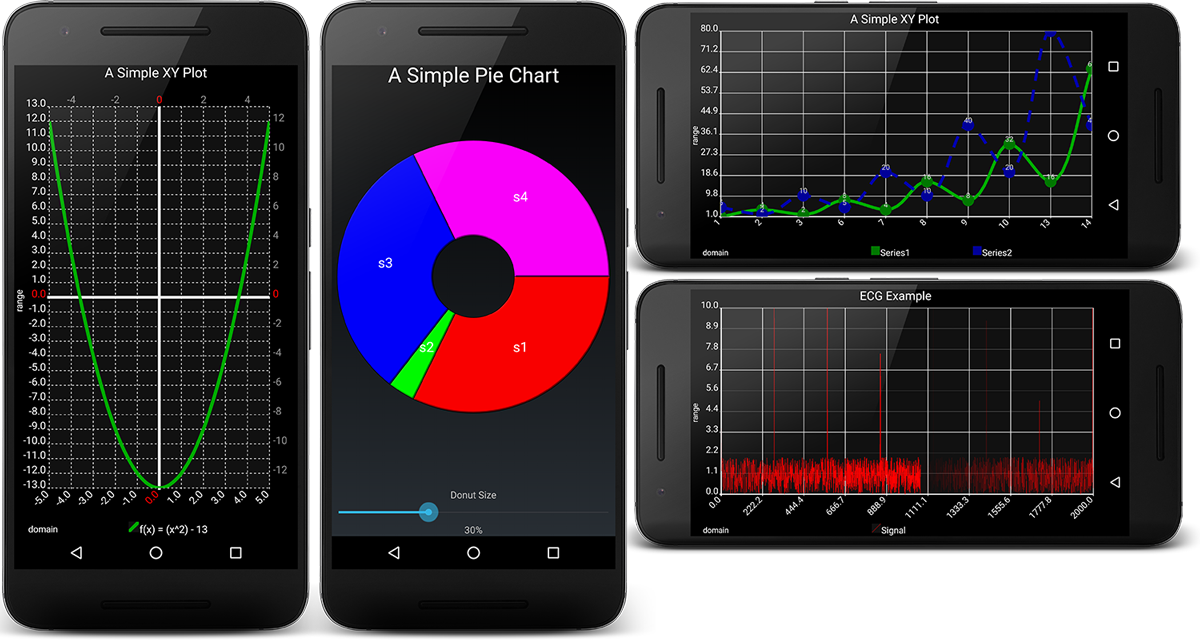
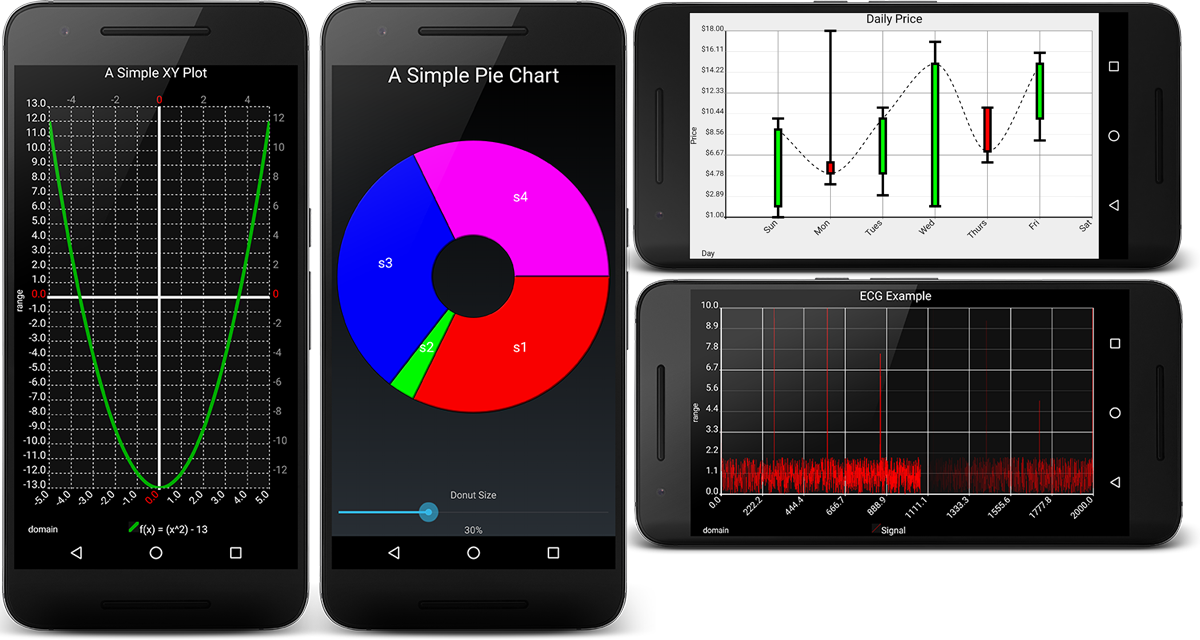
Documentation

Changed region(s): [[0.5242, 0.0, 0.925, 0.4375], [0.925, 0.4062, 0.9867, 0.4375], [0.9558, 0.0, 0.9867, 0.0312]]

diff --git a/README.md b/README.md
@@ -15,7 +15,12 @@ compatible with all versions of Android from 1.6 onward and is **used by over
 * Step Charts
 * Candlestick Charts
 
-**Links:**
+# Usage
+
+* :star: **[Quickstart](docs/quickstart.md)** 
+* [Full Documentation](docs/index.md)
+
+# Links
 
 * [Website](http://androidplot.com)
 * [Github Repo](https://github.com/halfhp/androidplot)
@@ -24,11 +29,6 @@ compatible with all versions of Android from 1.6 onward and is **used by over
 * [Demo App Soure Code](https://bitbucket.org/androidplot/androidplot/src/1538c5dfa56aed0d2cfdcbc7cdc6173e605543cd/demoapp/?at=master)
 * :ant: [Bugs](https://github.com/halfhp/androidplot/issues)
 * [Contributing Source Code](http://androidplot.com/docs/working-with-androidplot-source/)
-
-# Usage
-
-* :star: **[Quickstart](docs/quickstart.md)** 
-* [Full Documentation](docs/index.md)
 
 # Help
 Technical questions should be posted using the [androidplot tag](http://stackoverflow.com/questions/tagged/androidplot) on Stack Overflow.  For everything else use the [Google Groups forum](https://groups.google.com/d/forum/androidplot).

diff --git a/docs/quickstart.md b/docs/quickstart.md
@@ -1,4 +1,7 @@
 # Quickstart
+
+![image](images/simple_xy_plot.png)
+
 This tutorial will walk you through Adding Androidplot as a dependency and displaying an XYPlot with 
 two data series.  You can view this sample on your own device or emulator by installing the 
 [Demo App](https://play.google.com/store/apps/details?id=com.androidplot.demos) on your device and 
